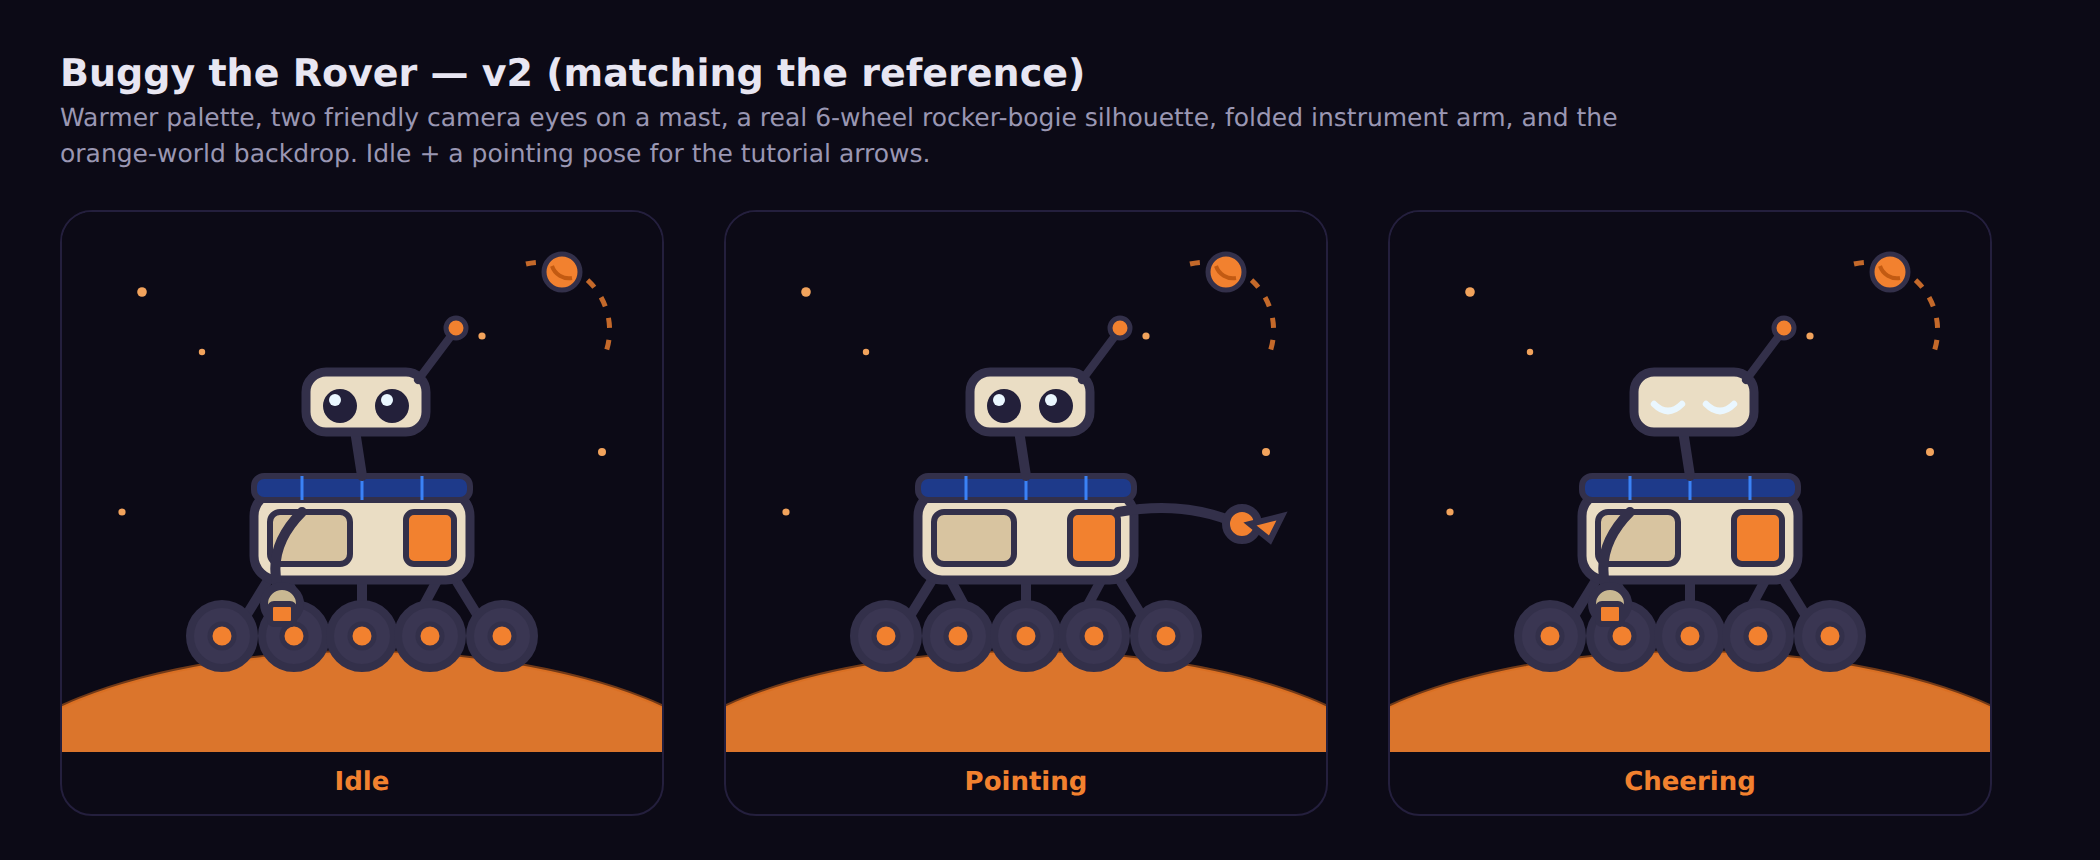
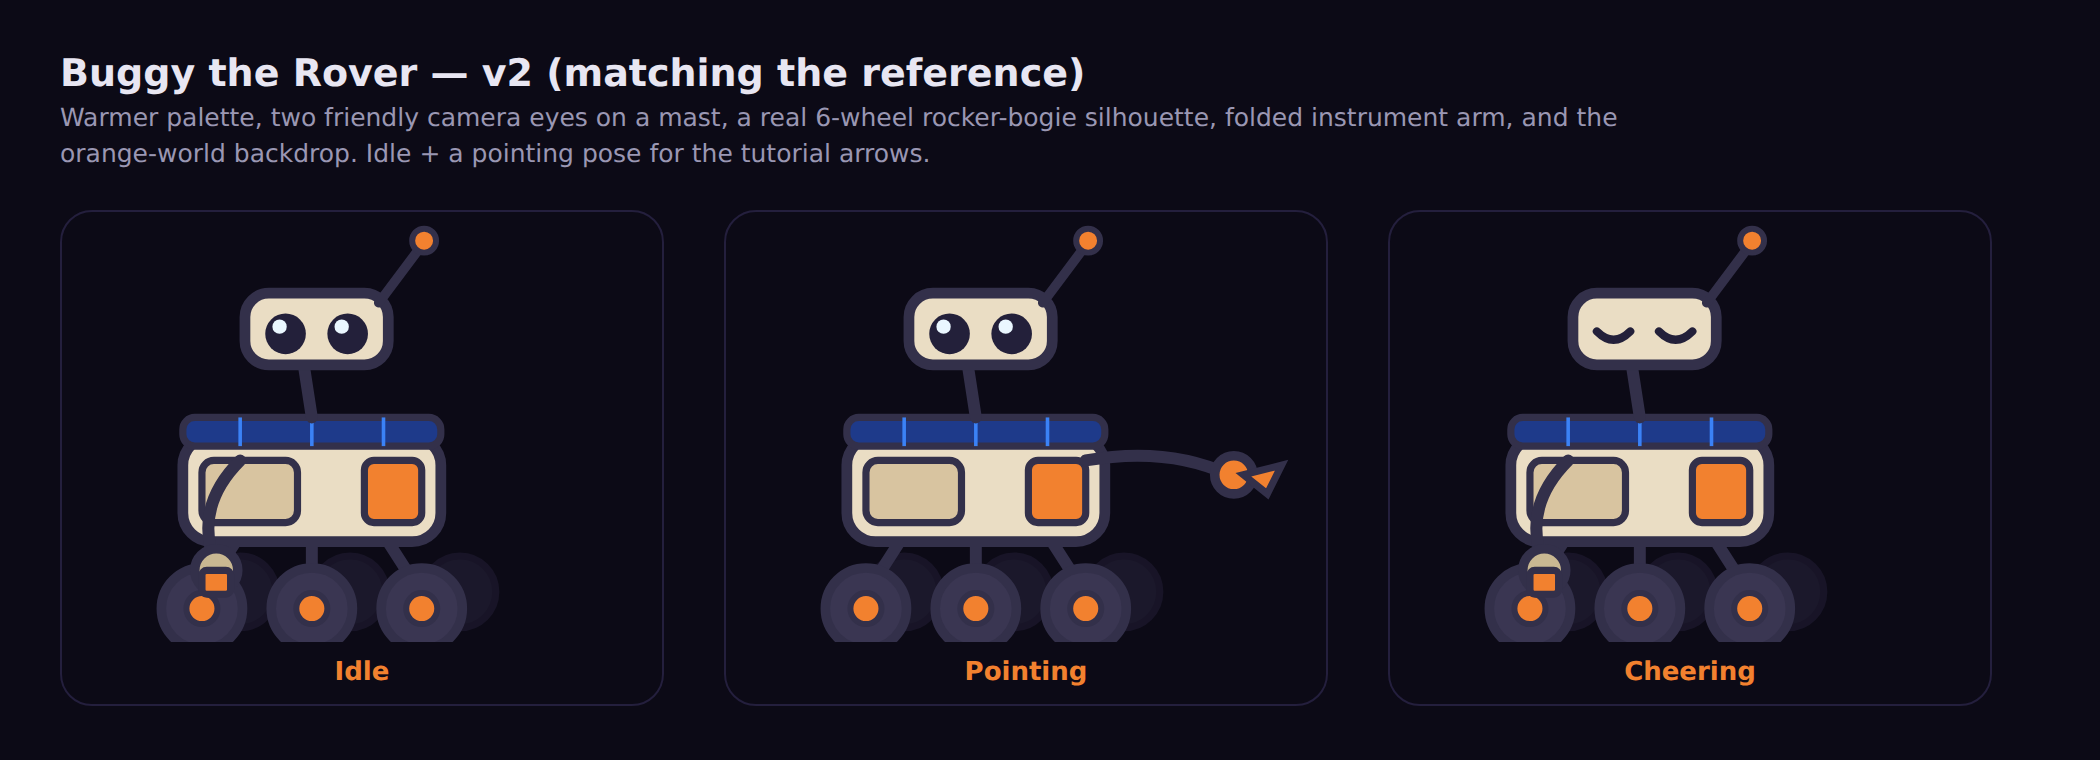
Mascot: rover-only Buggy (no backdrop, 3 wheels + shadows, black closed eyes)
Iterate Buggy to the user's notes: drop the Mars/star backdrop, use 3 near
wheels plus 3 offset shadow wheels for depth, and draw the cheering closed eyes
with dark lines. Design mockup only. Also captures gameplay-view stills.

Claude-Session: https://claude.ai/code/session_01Eeh4t5tsmPM4Wx7VCMk2BP

diff --git a/scratchpad/mascot-buggy2.html b/scratchpad/mascot-buggy2.html
@@ -31,32 +31,25 @@ function scene(uid, opts){
        <g fill="#c9b892" stroke="#33304a" stroke-width="4"><circle cx="110" cy="196" r="9"/></g>
        <rect x="104" y="196" width="12" height="10" rx="2" fill="#f2812f" stroke="#33304a" stroke-width="3"/>`;
   const eyes = opts.happy
-    ? `<path d="M132 96 q7 7 14 0" fill="none" stroke="#eaf7ff" stroke-width="3.2" stroke-linecap="round"/>
-       <path d="M158 96 q7 7 14 0" fill="none" stroke="#eaf7ff" stroke-width="3.2" stroke-linecap="round"/>`
+    ? `<path d="M132 96 q7 7 14 0" fill="none" stroke="#23203a" stroke-width="3.4" stroke-linecap="round"/>
+       <path d="M158 96 q7 7 14 0" fill="none" stroke="#23203a" stroke-width="3.4" stroke-linecap="round"/>`
     : `<circle cx="139" cy="97" r="8.5" fill="#23203a"/><circle cx="165" cy="97" r="8.5" fill="#23203a"/>
        <circle cx="136.5" cy="94" r="3" fill="#eaf7ff"/><circle cx="162.5" cy="94" r="3" fill="#eaf7ff"/>`;
-  return `<svg width="300" height="270" viewBox="0 0 300 270">
-    <rect width="300" height="270" fill="#0c0a16"/>
-    <!-- backdrop: stars, dashed orbit, tiny planet -->
-    <g fill="#f2a35c"><circle cx="40" cy="40" r="2.4"/><circle cx="255" cy="34" r="3"/><circle cx="210" cy="62" r="1.8"/>
-      <circle cx="70" cy="70" r="1.6"/><circle cx="270" cy="120" r="2"/><circle cx="30" cy="150" r="1.8"/></g>
-    <path d="M232 26 a34 34 0 0 1 40 44" fill="none" stroke="#f2812f" stroke-width="2.5" stroke-dasharray="5 6" opacity="0.8"/>
-    <circle cx="250" cy="30" r="9" fill="#f2812f" stroke="#33304a" stroke-width="2.5"/>
-    <path d="M245 27 a9 9 0 0 0 10 6" fill="none" stroke="#c25a12" stroke-width="2"/>
-    <!-- ground -->
-    <ellipse cx="150" cy="300" rx="200" ry="80" fill="#f2812f" opacity="0.9"/>
-    <ellipse cx="150" cy="300" rx="200" ry="80" fill="none" stroke="#d8691a" stroke-width="2" opacity="0.5"/>
-
-    <!-- ===== rover ===== -->
+  return `<svg width="300" height="215" viewBox="46 46 250 180">
+    <!-- ===== rover only (no backdrop) ===== -->
+    <!-- far-side wheels (shadows, offset behind) -->
+    <g opacity="0.5">
+      ${[104,150,196].map(x=>`<circle cx="${x+16}" cy="205" r="15" fill="#2b2740" stroke="#241f38" stroke-width="3"/>`).join('')}
+    </g>
     <!-- rocker-bogie struts -->
     <g stroke="#33304a" stroke-width="5" stroke-linecap="round" fill="none">
-      <path d="M108 176 l-16 26 M108 176 l14 26 M150 178 v26 M192 176 l-14 26 M192 176 l16 26"/>
+      <path d="M122 178 L104 206 M150 180 L150 206 M178 178 L196 206 M122 178 L150 180 L178 178"/>
     </g>
-    <!-- wheels (6) -->
+    <!-- near-side wheels (3) -->
     <g>
-      ${[80,116,150,184,220].map(x=>`
-        <circle cx="${x}" cy="212" r="16" fill="#3a3652" stroke="#33304a" stroke-width="4"/>
-        <circle cx="${x}" cy="212" r="6" fill="#f2812f" stroke="#33304a" stroke-width="2.5"/>`).join('')}
+      ${[104,150,196].map(x=>`
+        <circle cx="${x}" cy="212" r="17" fill="#3a3652" stroke="#33304a" stroke-width="4"/>
+        <circle cx="${x}" cy="212" r="6.5" fill="#f2812f" stroke="#33304a" stroke-width="2.5"/>`).join('')}
     </g>
     <!-- chassis -->
     <rect x="96" y="140" width="108" height="44" rx="12" fill="#eaddc4" stroke="#33304a" stroke-width="4.5"/>
